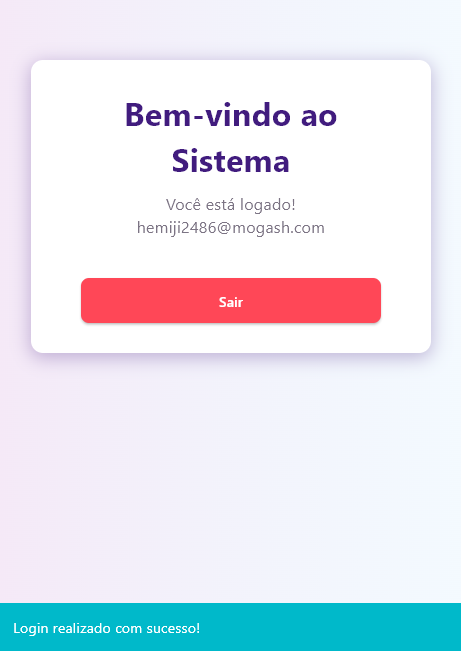
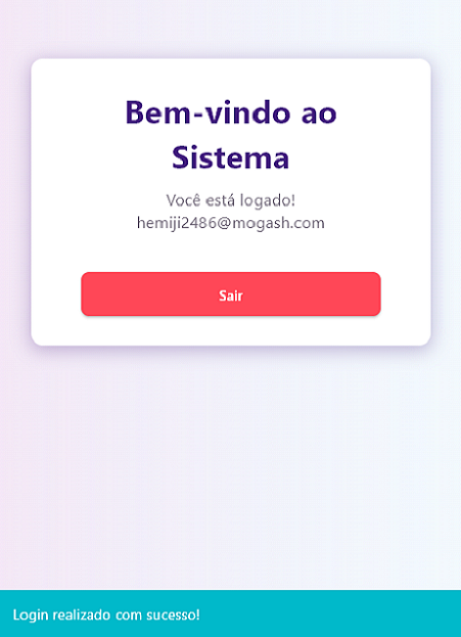
Fix: correcting image size

diff --git a/Readme.md b/Readme.md
@@ -50,14 +50,11 @@ Aplicação de login com recuperação de senha via e-mail, desenvolvida com **F
    flet run main.py
 
 <p align="center">
-    <img src="src/assets/images/login.png" width="322" height="455"/>
-    <img src="src/assets/images/loged.png" width="322" height="455"/>
-    <img src="src/assets/images/register.png" width="322" height="455"/>
-    <img src="src/assets/images/code.png" width="322" height="455"/>
-    <img src="src/assets/images/verification.png" width="322" height="455"/>
-    <img src="src/assets/images/reset.png" width="322" height="455"/>
-
+    <img src="src/assets/images/login.png" width="322"/>
+    <img src="src/assets/images/loged.png" width="322"/>
+    <img src="src/assets/images/register.png" width="322"/>
+    <img src="src/assets/images/code.png" width="322"/>
+    <img src="src/assets/images/verification.png" width="322"/>
+    <img src="src/assets/images/reset.png" width="322"/>
 </p>
-
-
 
